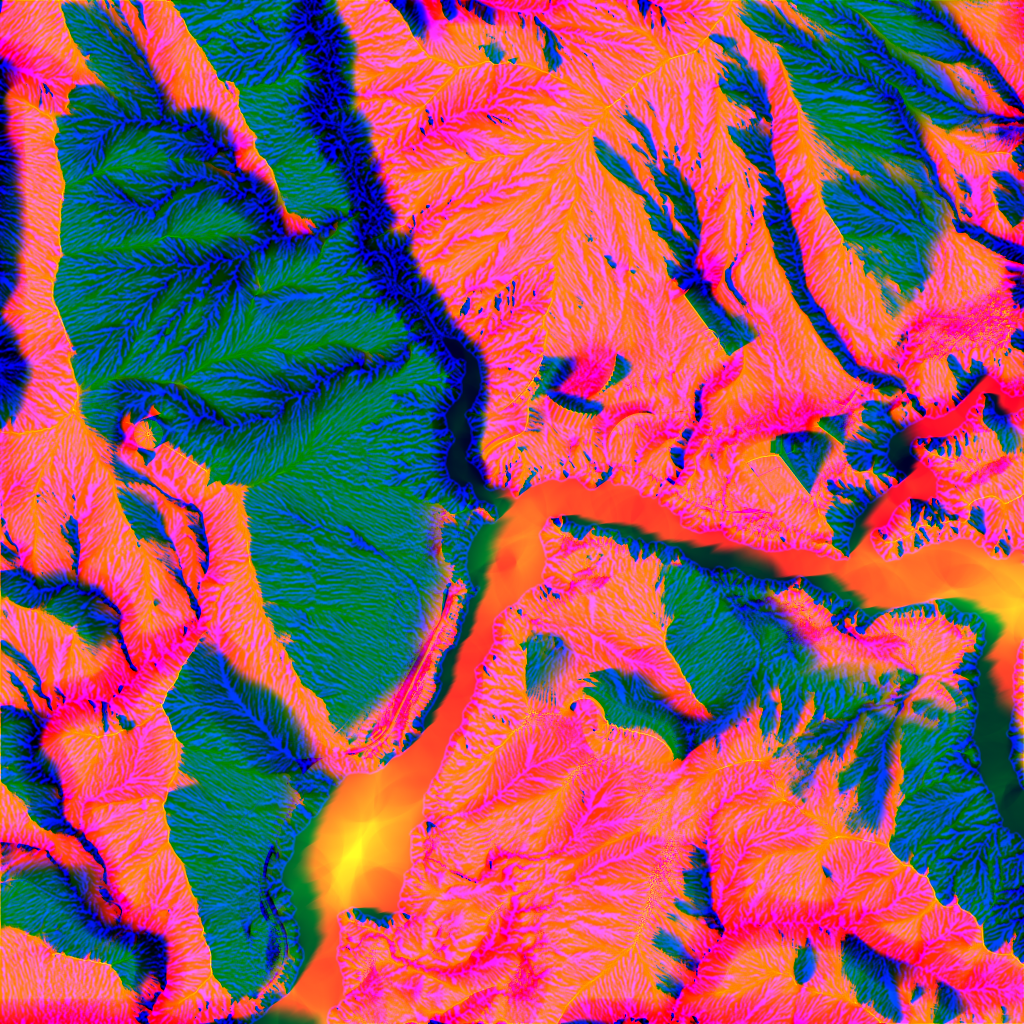
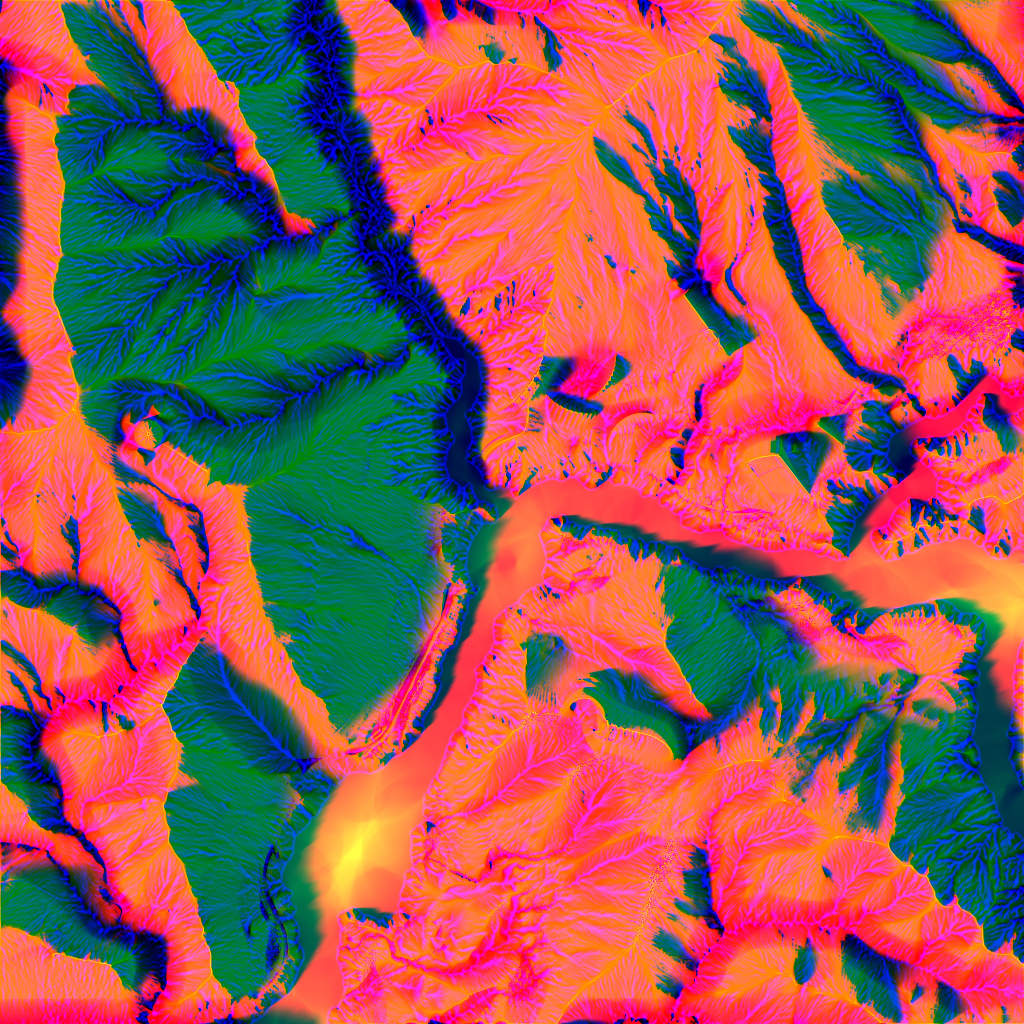
Cheaper rough march on slow devices; fine band setting
Rough march (moving frames, only on devices that need it)
- Terrain.ts: no slope smoothing, its own refine steps and shaft
  samples, bilinear heights unless asked, and a precision divided by
  Motion scale (its pixels are that much larger)
- march.glsl: no second read near the ground when the heights are
  bilinear

Fine band
- march.glsl: Fine band (m) replaces the 3 m band of fine reads near
  the ground (the B-spline rises above bilinear by at most 0.5 m on
  99.99 percent of the site)

Panel
- schema.ts: Rough refine steps, Rough shaft samples, Rough exact
  heights, Fine band
- Tuning: refine steps 2, shaft samples 16, legend text samples 8,
  fine band 0.5, rough shaft samples 12

Terrain
- Maps re-export

Docs
- Roadmap: decision log

diff --git a/web/src/lib/tuning/schema.ts b/web/src/lib/tuning/schema.ts
@@ -74,6 +74,10 @@ export const schema: Group[] = [
 			{ key: 'precision', label: 'Precision', min: 0.0001, max: 0.01, step: 0.0001, hint: 'Minimum step and hit tolerance, relative to distance.' },
 			{ key: 'steps', label: 'Max steps', kind: 'int', min: 8, max: 512, step: 1 },
 			{ key: 'refineSteps', label: 'Refine steps', kind: 'int', min: 0, max: 16, step: 1 },
+			{ key: 'roughRefineSteps', label: 'Rough refine steps', kind: 'int', min: 0, max: 16, step: 1, hint: 'Refine steps of the rough march (while the camera moves, on a device where Rough in motion is on). Fewer is cheaper; the sharp march takes over once the camera stops. The rough march’s slope also skips Slope smoothing (4 reads instead of 8), and its precision is Precision ÷ Motion scale (its pixels are that much larger).' },
+			{ key: 'roughShaftSamples', label: 'Rough shaft samples', kind: 'int', min: 0, max: 64, step: 1, hint: 'Light shaft samples per pixel in the rough march (at most Light shafts → Samples). Each reads the shadow ceiling and computes the mist: fewer is cheaper, the shafts a little noisier while moving. 0: no shafts while moving.' },
+			{ key: 'roughExactHeights', label: 'Rough exact heights', kind: 'int', min: 0, max: 1, step: 1, hint: 'Exact heights in the rough march (only if Exact heights is on). 0: the GPU’s bilinear everywhere while moving, one read instead of the B-spline’s four, the normal 4 reads instead of 16: the stamps’ dashes may show while moving. 1: as the sharp march.' },
+			{ key: 'fineBand', label: 'Fine band (m)', min: 0, max: 5, step: 0.05, hint: 'How close to the ground (plus a pixel’s height) the march reads the heightmap as the B-spline (four reads) instead of bilinear (one). Narrower is cheaper, mostly on rays skimming the ground near the camera. The B-spline rises above bilinear in narrow dips (up to 0.5 m on 99.99 % of the site): where that rise passes about 3/4 of the band, a hit can land slightly inside the dip. 0.8 leaves about 0.008 % of the ground to that.' },
 			{ key: 'renderScale', label: 'Render scale', min: 0.25, max: 1, step: 0.05, hint: 'Resolution of the terrain cache (the raymarch). Lower is cheaper; the mist stays full resolution.' },
 			{ key: 'motionScale', label: 'Motion scale', min: 0.1, max: 1, step: 0.05, hint: 'Resolution of the rough march while the camera moves (see Rough in motion), as a fraction of the render scale; a sharp march follows once it stops.' },
 			{ key: 'motionMode', label: 'Rough in motion', kind: 'int', min: 0, max: 2, step: 1, hint: '0: never, the march stays sharp while moving. 1: automatic, on for good the first time moving frames run under ~52 fps on this device, before the resolution drops; remembered on the device (switching away and back forgets it and restarts the detection). 2: always. The stats show "motion sharp / rough".' },

diff --git a/web/src/lib/drawables/terrain/Terrain.ts b/web/src/lib/drawables/terrain/Terrain.ts
@@ -52,6 +52,10 @@ export interface TerrainSettings {
 		motionScale: number;
 		motionMode: number;
 		exactHeights: number;
+		roughRefineSteps: number;
+		roughShaftSamples: number;
+		roughExactHeights: number;
+		fineBand: number;
 	};
 	shading: {
 		tint: number[];
@@ -443,9 +447,14 @@ export class Terrain implements Drawable {
 		s[0] = shading.shadowLight;
 		s[1] = shading.aoStrength;
 		s[2] = shading.cavityStrength;
+		// The rough cache (a moving camera, on a slow device) is marched cheaper: no slope smoothing (4 height reads
+		// for the normal instead of 8), its own refine steps, fewer shaft samples, bilinear heights unless asked, and
+		// a precision matched to its larger pixels. The sharp march after it has everything.
+		const rough = cache === this.rough;
+		const motion = Math.min(1, Math.max(0.1, march.motionScale)); // as in draw(): the rough cache's scale
 		const u = this.marchUniforms;
 		u.uSlopeLight = shading.slopeLight;
-		u.uSlopeSmoothing = Math.max(0, shading.slopeSmoothing);
+		u.uSlopeSmoothing = rough ? 0 : Math.max(0, shading.slopeSmoothing);
 		const f = this.farFieldVector;
 		f[0] = ground.farBase;
 		f[1] = farField.amplitude;
@@ -456,7 +465,8 @@ export class Terrain implements Drawable {
 		this.slabVector[0] = slabMin;
 		this.slabVector[1] = slabMax;
 		const sm = this.shaftMarchVector;
-		sm[0] = Math.max(0, Math.round(shafts.samples));
+		const samples = Math.max(0, Math.round(shafts.samples));
+		sm[0] = rough ? Math.min(samples, Math.max(0, Math.round(march.roughShaftSamples))) : samples;
 		sm[1] = shafts.softness;
 		sm[2] = fog.density;
 
@@ -467,11 +477,12 @@ export class Terrain implements Drawable {
 		u.uFarMap = this.farTexture ?? this.heightTexture;
 		u.uMaps = this.mapsTexture;
 		u.uSteps = march.steps;
-		u.uRefineSteps = march.refineSteps;
+		u.uRefineSteps = rough ? march.roughRefineSteps : march.refineSteps;
+		u.uFineBand = Math.max(0, march.fineBand);
 		u.uStepScale = march.stepScale;
-		u.uPrecision = march.precision;
+		u.uPrecision = rough ? march.precision / motion : march.precision;
 		u.uPixel = 2 / (camera.projection[5] * cache.height); // this cache's pixels (the rough one's are larger)
-		u.uExactHeights = march.exactHeights;
+		u.uExactHeights = rough ? Math.min(march.exactHeights, march.roughExactHeights) : march.exactHeights;
 		u.uMaxDistance = fog.end;
 		u.uTint = srgbToLinear(shading.tint, this.tintLinear);
 		u.uShadow = this.shadow!.color;

diff --git a/doc/roadmap.md b/doc/roadmap.md
@@ -303,6 +303,8 @@ Dropped (2026-10-29): simpler, faster without.
 
 ## Decision log
 
+- **2026-11-12**: The rough march (moving frames, on the devices that need it) gets cheaper on its own, so fast devices keep everything: no slope smoothing, its own refine steps and shaft samples (Rough refine steps, Rough shaft samples), the GPU's bilinear heights instead of the B-spline (Rough exact heights), and a precision divided by Motion scale (its pixels are that much larger). The band of fine reads near the ground became a setting (Fine band): the B-spline rises above bilinear by at most 0.5 m on 99.99 % of the site (5.4 m at one spot), so the first 3 m guess was far wider than needed. Baking AO and cavity in Houdini was weighed: no saving, they're baked already and read with the shadow in one texture read. Next if needed: a Rough max steps, after comparing the phone's fps standing still and moving (still frames slow too would point at the composite, the dust or the legend shadows, not the march).
+
 - **2026-11-12**: The heightmap's fine reads (near the ground, and the light's slope) are a cubic B-spline from four GPU-filtered reads (GPU Gems 2, Sigg & Hadwiger), instead of bilinear in fp32. The stamps' walls step one texel at a time in the exported heights, and the sun's angle on each step (n·L) drew black dashes along them; Houdini, showing the same layer at the same resolution, didn't. Found by switching the slope's light off (Shading → Slope light). Tried on the way: Houdini's own way (its viewport draws a triangle mesh with per-vertex normals, `houdini/glsl/heightfield/VK/`), iq's smooth bilinear (a smoothstep on the weights: it passes through the samples, so the steps stay; much worse), the exact B-spline from 16 texels (the look wanted, too costly), and its slope alone over bilinear heights. The fast B-spline looks like the exact one at bilinear's cost; its reads go through the GPU's 8-bit weights, so steep walls are worth a look on a new device. Slope smoothing (central differences fading into a Sobel stencil, in texels) softens the light's slope further. The CPU's ground follows the B-spline (`Heightfield.bsplineAt`). With every filter compiled in and the normal's eight reads written out, the 3D went blank on the phone (the error wasn't read); one filter and the reads in a loop brought it back. Rough in motion is automatic again (it had been saved at "never").
 
 - **2026-11-10**: The materials are removed rather than left running empty (set aside on 2026-11-05: the stamps are sand, one matte material). Empty, they still cost the cached march a texture read and the materials' maths for every pixel it shaded, for the same picture. What stays: one matte ground, its colour from the albedo maps, lit by n·L × the baked shadow × AO and cavity, and the water. The march no longer takes the fog, sky and sun colours, which only the reflections used. Should a material come back (a wet shore, a polished fossil), the code is in the history (87b8a0a and before).
